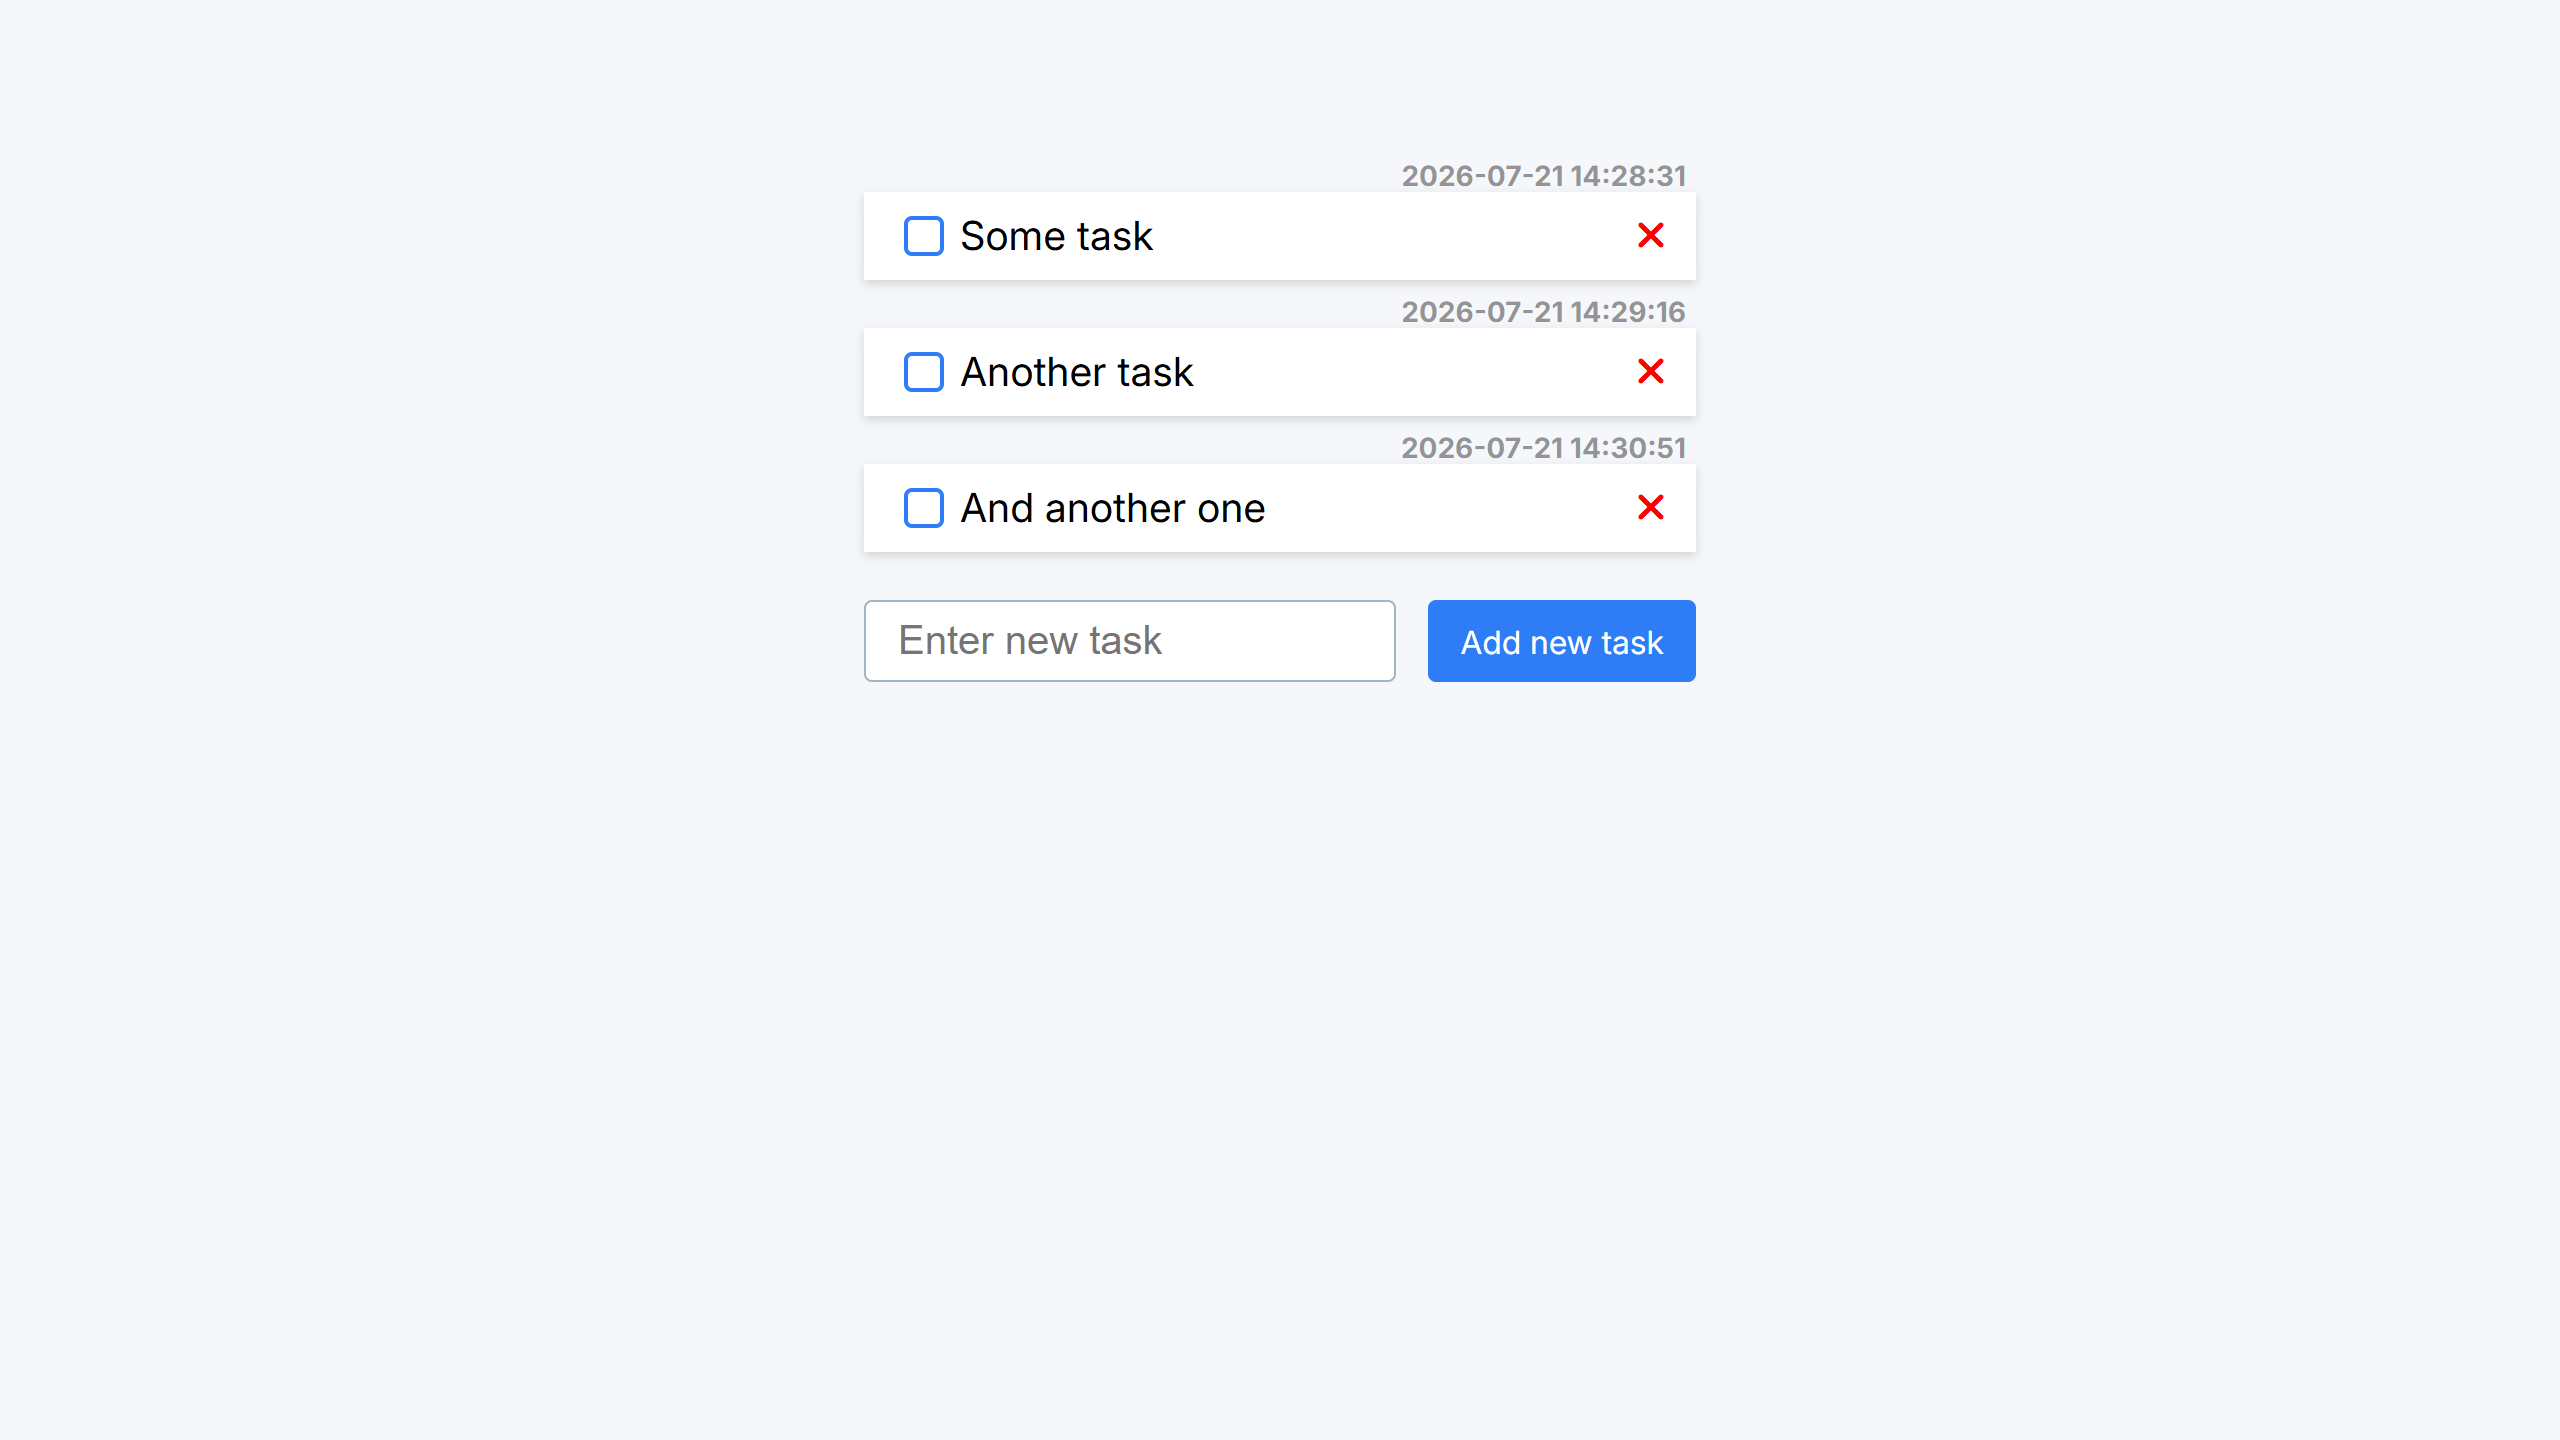
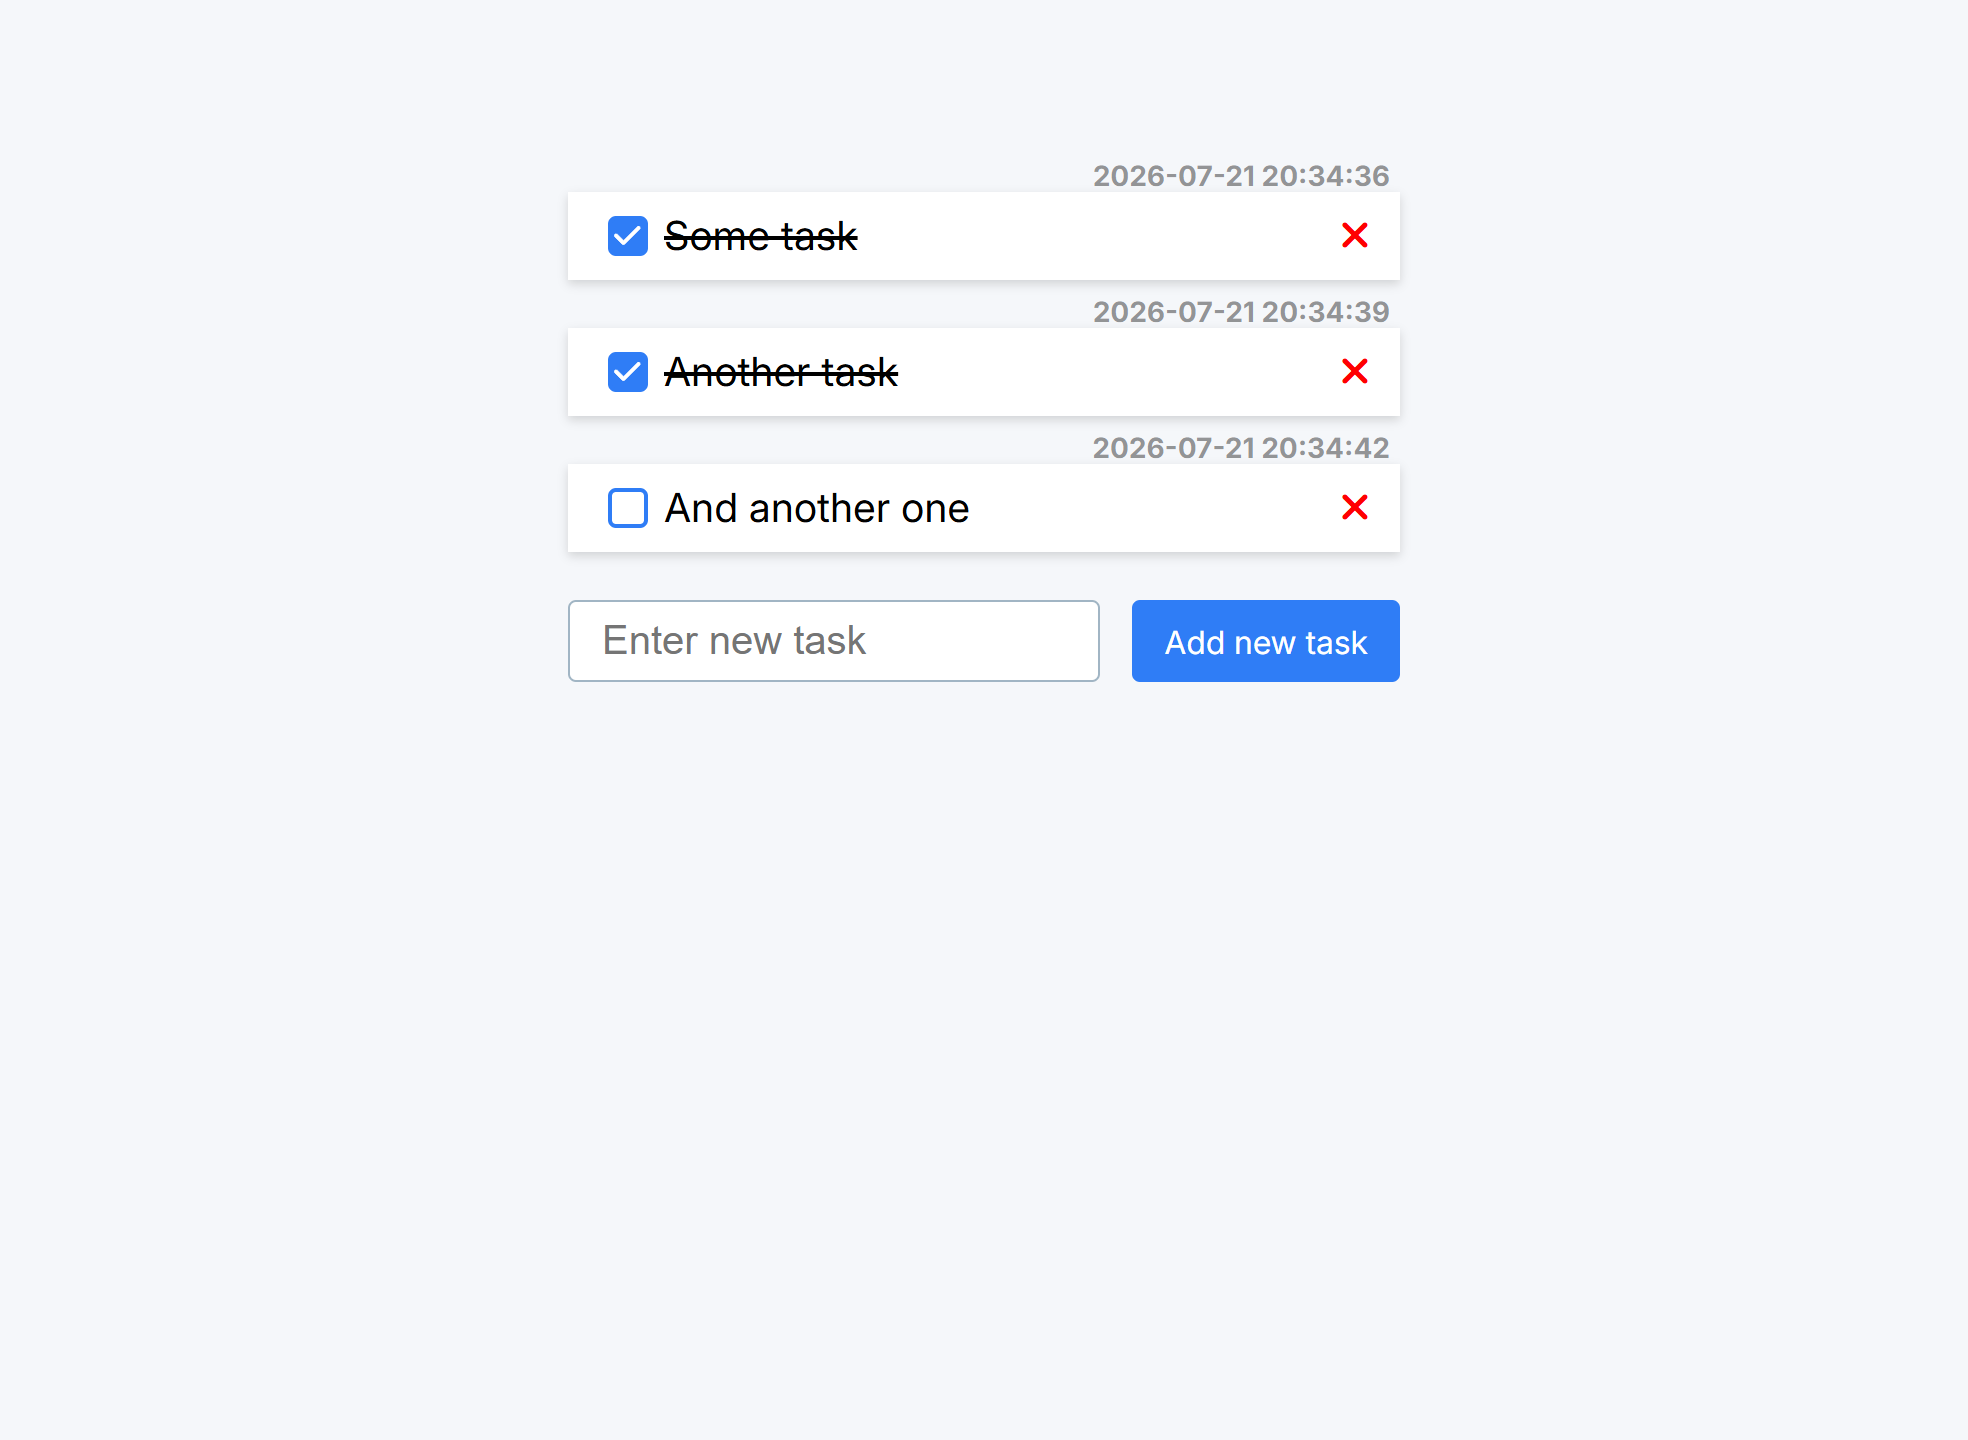
refactor(applications/todo-list-app): refactor some code

diff --git a/projects/applications/todo-list-app/src/main.js b/projects/applications/todo-list-app/src/main.js
@@ -7,7 +7,7 @@
     completed: false,
   }
 */
-let state = {
+const state = {
   items: [],
 };
 
@@ -77,7 +77,7 @@ function createListItem(item) {
   textField.textContent = item.text;
 
   const dateField = listItemClone.querySelector('.todo-app__item-date');
-  dateField.appendChild(document.createTextNode(item.date));
+  dateField.textContent = item.date;
 
   return listItemClone;
 }
@@ -104,10 +104,11 @@ function saveItems() {
   localStorage.setItem('listData', JSON.stringify(state));
 }
 
+// Load items from local storage
 function loadItems() {
   const savedData = JSON.parse(localStorage.getItem('listData'));
-  if (savedData) {
-    state = savedData;
+  if (savedData && Array.isArray(savedData.items)) {
+    state.items = savedData.items;
   }
 }
 
@@ -128,8 +129,10 @@ function removeItem(id) {
   state.items = state.items.filter((item) => item.id !== id);
 }
 
+// Toggle complete state on individual list item
 function toggleComplete(id) {
   const completedItem = state.items.find((item) => item.id === id);
+  if (!completedItem) return;
 
   completedItem.completed = !completedItem.completed;
 }